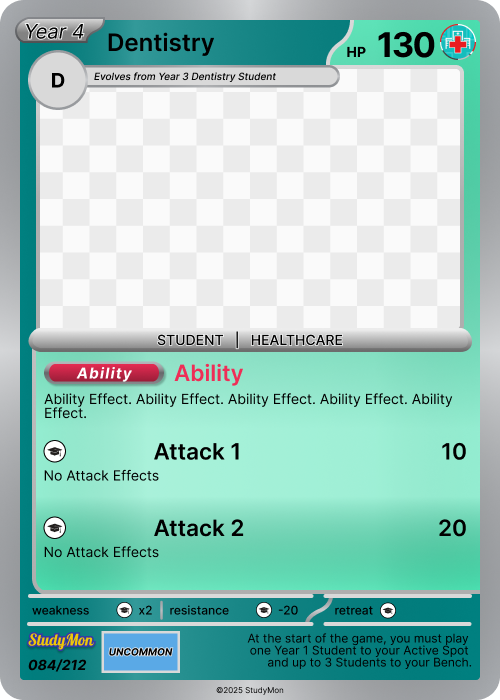
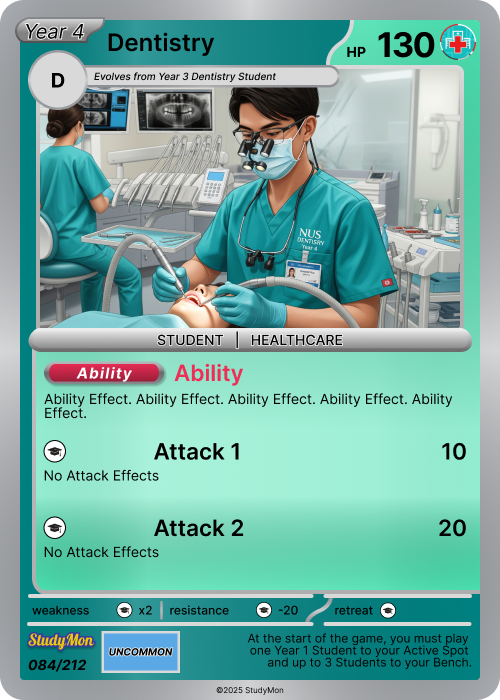
feat(cards): Added cards until collection is full at 150 cards

Changed region(s): [[0.06, 0.09, 0.93, 0.48]]

diff --git a/frontend/assets/cards/CardArtMap.ts b/frontend/assets/cards/CardArtMap.ts
@@ -99,4 +99,56 @@ export const cardArtMap: Record<string, any> = {
   'assets/cards/096.png': require('assets/cards/096.png'),
   'assets/cards/097.png': require('assets/cards/097.png'),
   'assets/cards/098.png': require('assets/cards/098.png'),
+  'assets/cards/099.png': require('assets/cards/099.png'),
+  'assets/cards/100.png': require('assets/cards/100.png'),
+  'assets/cards/101.png': require('assets/cards/101.png'),
+  'assets/cards/102.png': require('assets/cards/102.png'),
+  'assets/cards/103.png': require('assets/cards/103.png'),
+  'assets/cards/104.png': require('assets/cards/104.png'),
+  'assets/cards/105.png': require('assets/cards/105.png'),
+  'assets/cards/106.png': require('assets/cards/106.png'),
+  'assets/cards/107.png': require('assets/cards/107.png'),
+  'assets/cards/108.png': require('assets/cards/108.png'),
+  'assets/cards/109.png': require('assets/cards/109.png'),
+  'assets/cards/110.png': require('assets/cards/110.png'),
+  'assets/cards/111.png': require('assets/cards/111.png'),
+  'assets/cards/112.png': require('assets/cards/112.png'),
+  'assets/cards/113.png': require('assets/cards/113.png'),
+  'assets/cards/114.png': require('assets/cards/114.png'),
+  'assets/cards/115.png': require('assets/cards/115.png'),
+  'assets/cards/116.png': require('assets/cards/116.png'),
+  'assets/cards/117.png': require('assets/cards/117.png'),
+  'assets/cards/118.png': require('assets/cards/118.png'),
+  'assets/cards/119.png': require('assets/cards/119.png'),
+  'assets/cards/120.png': require('assets/cards/120.png'),
+  'assets/cards/121.png': require('assets/cards/121.png'),
+  'assets/cards/122.png': require('assets/cards/122.png'),
+  'assets/cards/123.png': require('assets/cards/123.png'),
+  'assets/cards/124.png': require('assets/cards/124.png'),
+  'assets/cards/125.png': require('assets/cards/125.png'),
+  'assets/cards/126.png': require('assets/cards/126.png'),
+  'assets/cards/127.png': require('assets/cards/127.png'),
+  'assets/cards/128.png': require('assets/cards/128.png'),
+  'assets/cards/129.png': require('assets/cards/129.png'),
+  'assets/cards/130.png': require('assets/cards/130.png'),
+  'assets/cards/131.png': require('assets/cards/131.png'),
+  'assets/cards/132.png': require('assets/cards/132.png'),
+  'assets/cards/133.png': require('assets/cards/133.png'),
+  'assets/cards/134.png': require('assets/cards/134.png'),
+  'assets/cards/135.png': require('assets/cards/135.png'),
+  'assets/cards/136.png': require('assets/cards/136.png'),
+  'assets/cards/137.png': require('assets/cards/137.png'),
+  'assets/cards/138.png': require('assets/cards/138.png'),
+  'assets/cards/139.png': require('assets/cards/139.png'),
+  'assets/cards/140.png': require('assets/cards/140.png'),
+  'assets/cards/141.png': require('assets/cards/141.png'),
+  'assets/cards/142.png': require('assets/cards/142.png'),
+  'assets/cards/143.png': require('assets/cards/143.png'),
+  'assets/cards/144.png': require('assets/cards/144.png'),
+  'assets/cards/145.png': require('assets/cards/145.png'),
+  'assets/cards/146.png': require('assets/cards/146.png'),
+  'assets/cards/147.png': require('assets/cards/147.png'),
+  'assets/cards/148.png': require('assets/cards/148.png'),
+  'assets/cards/149.png': require('assets/cards/149.png'),
+  'assets/cards/150.png': require('assets/cards/150.png'),
 };
